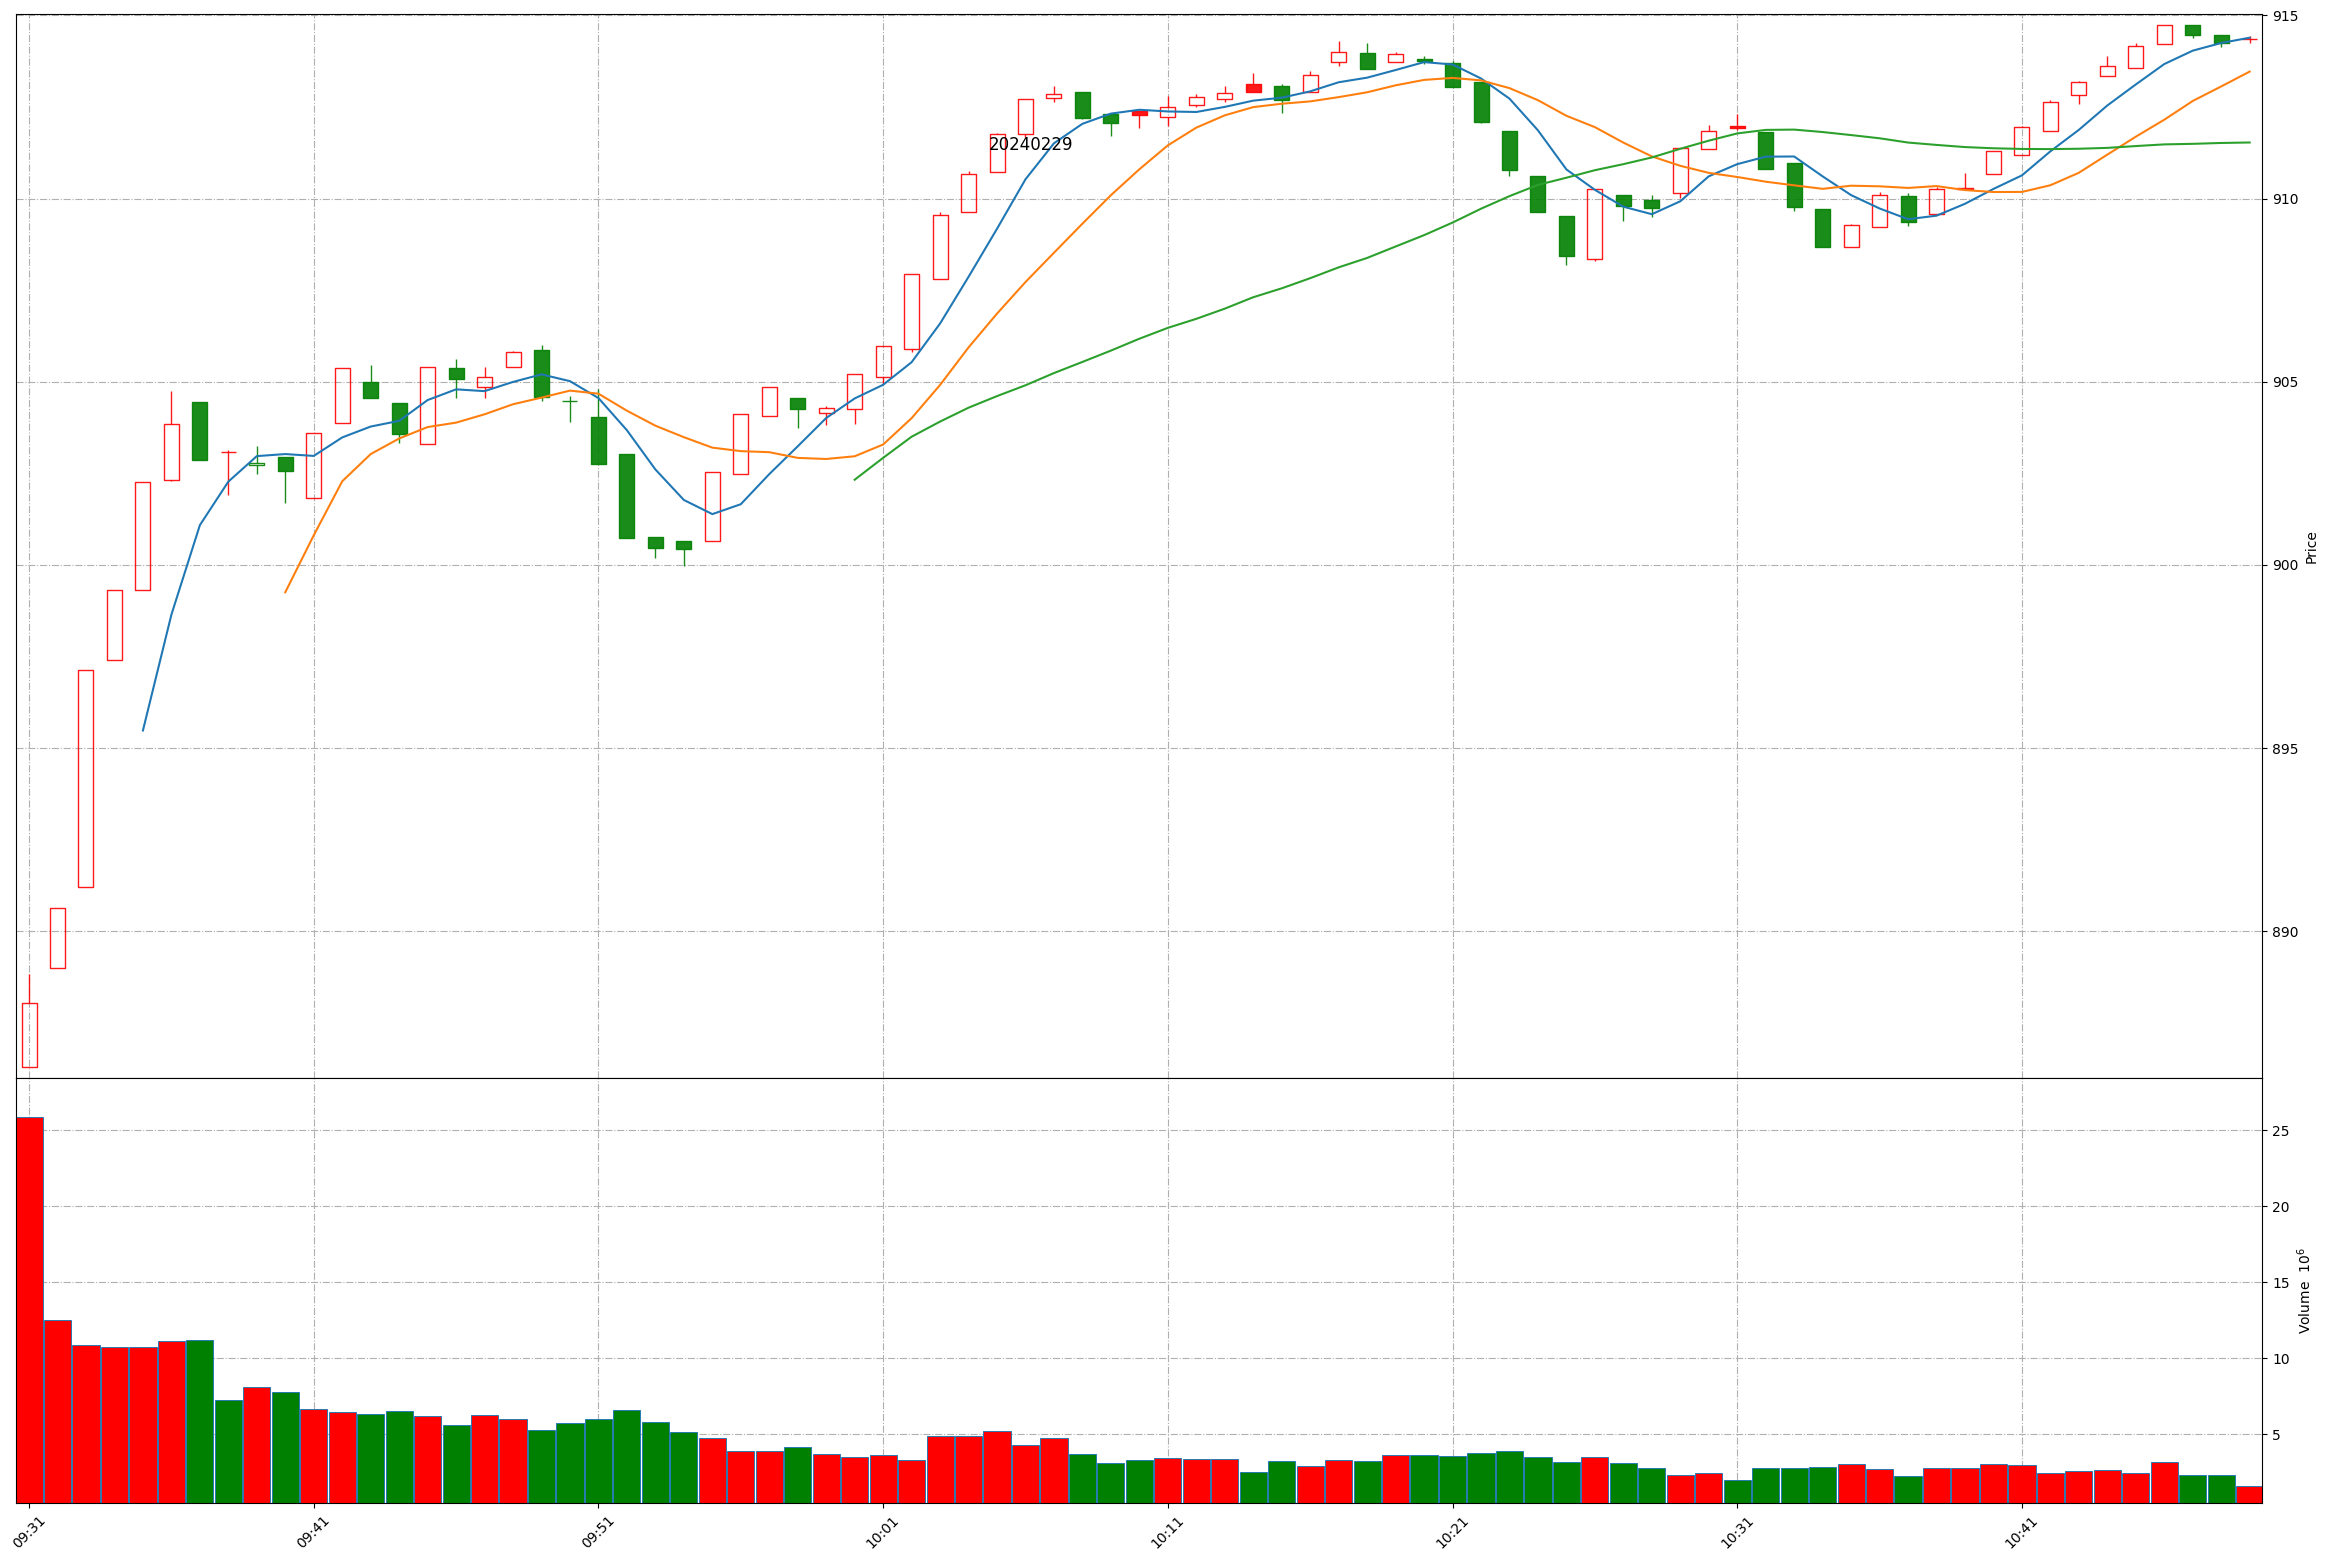
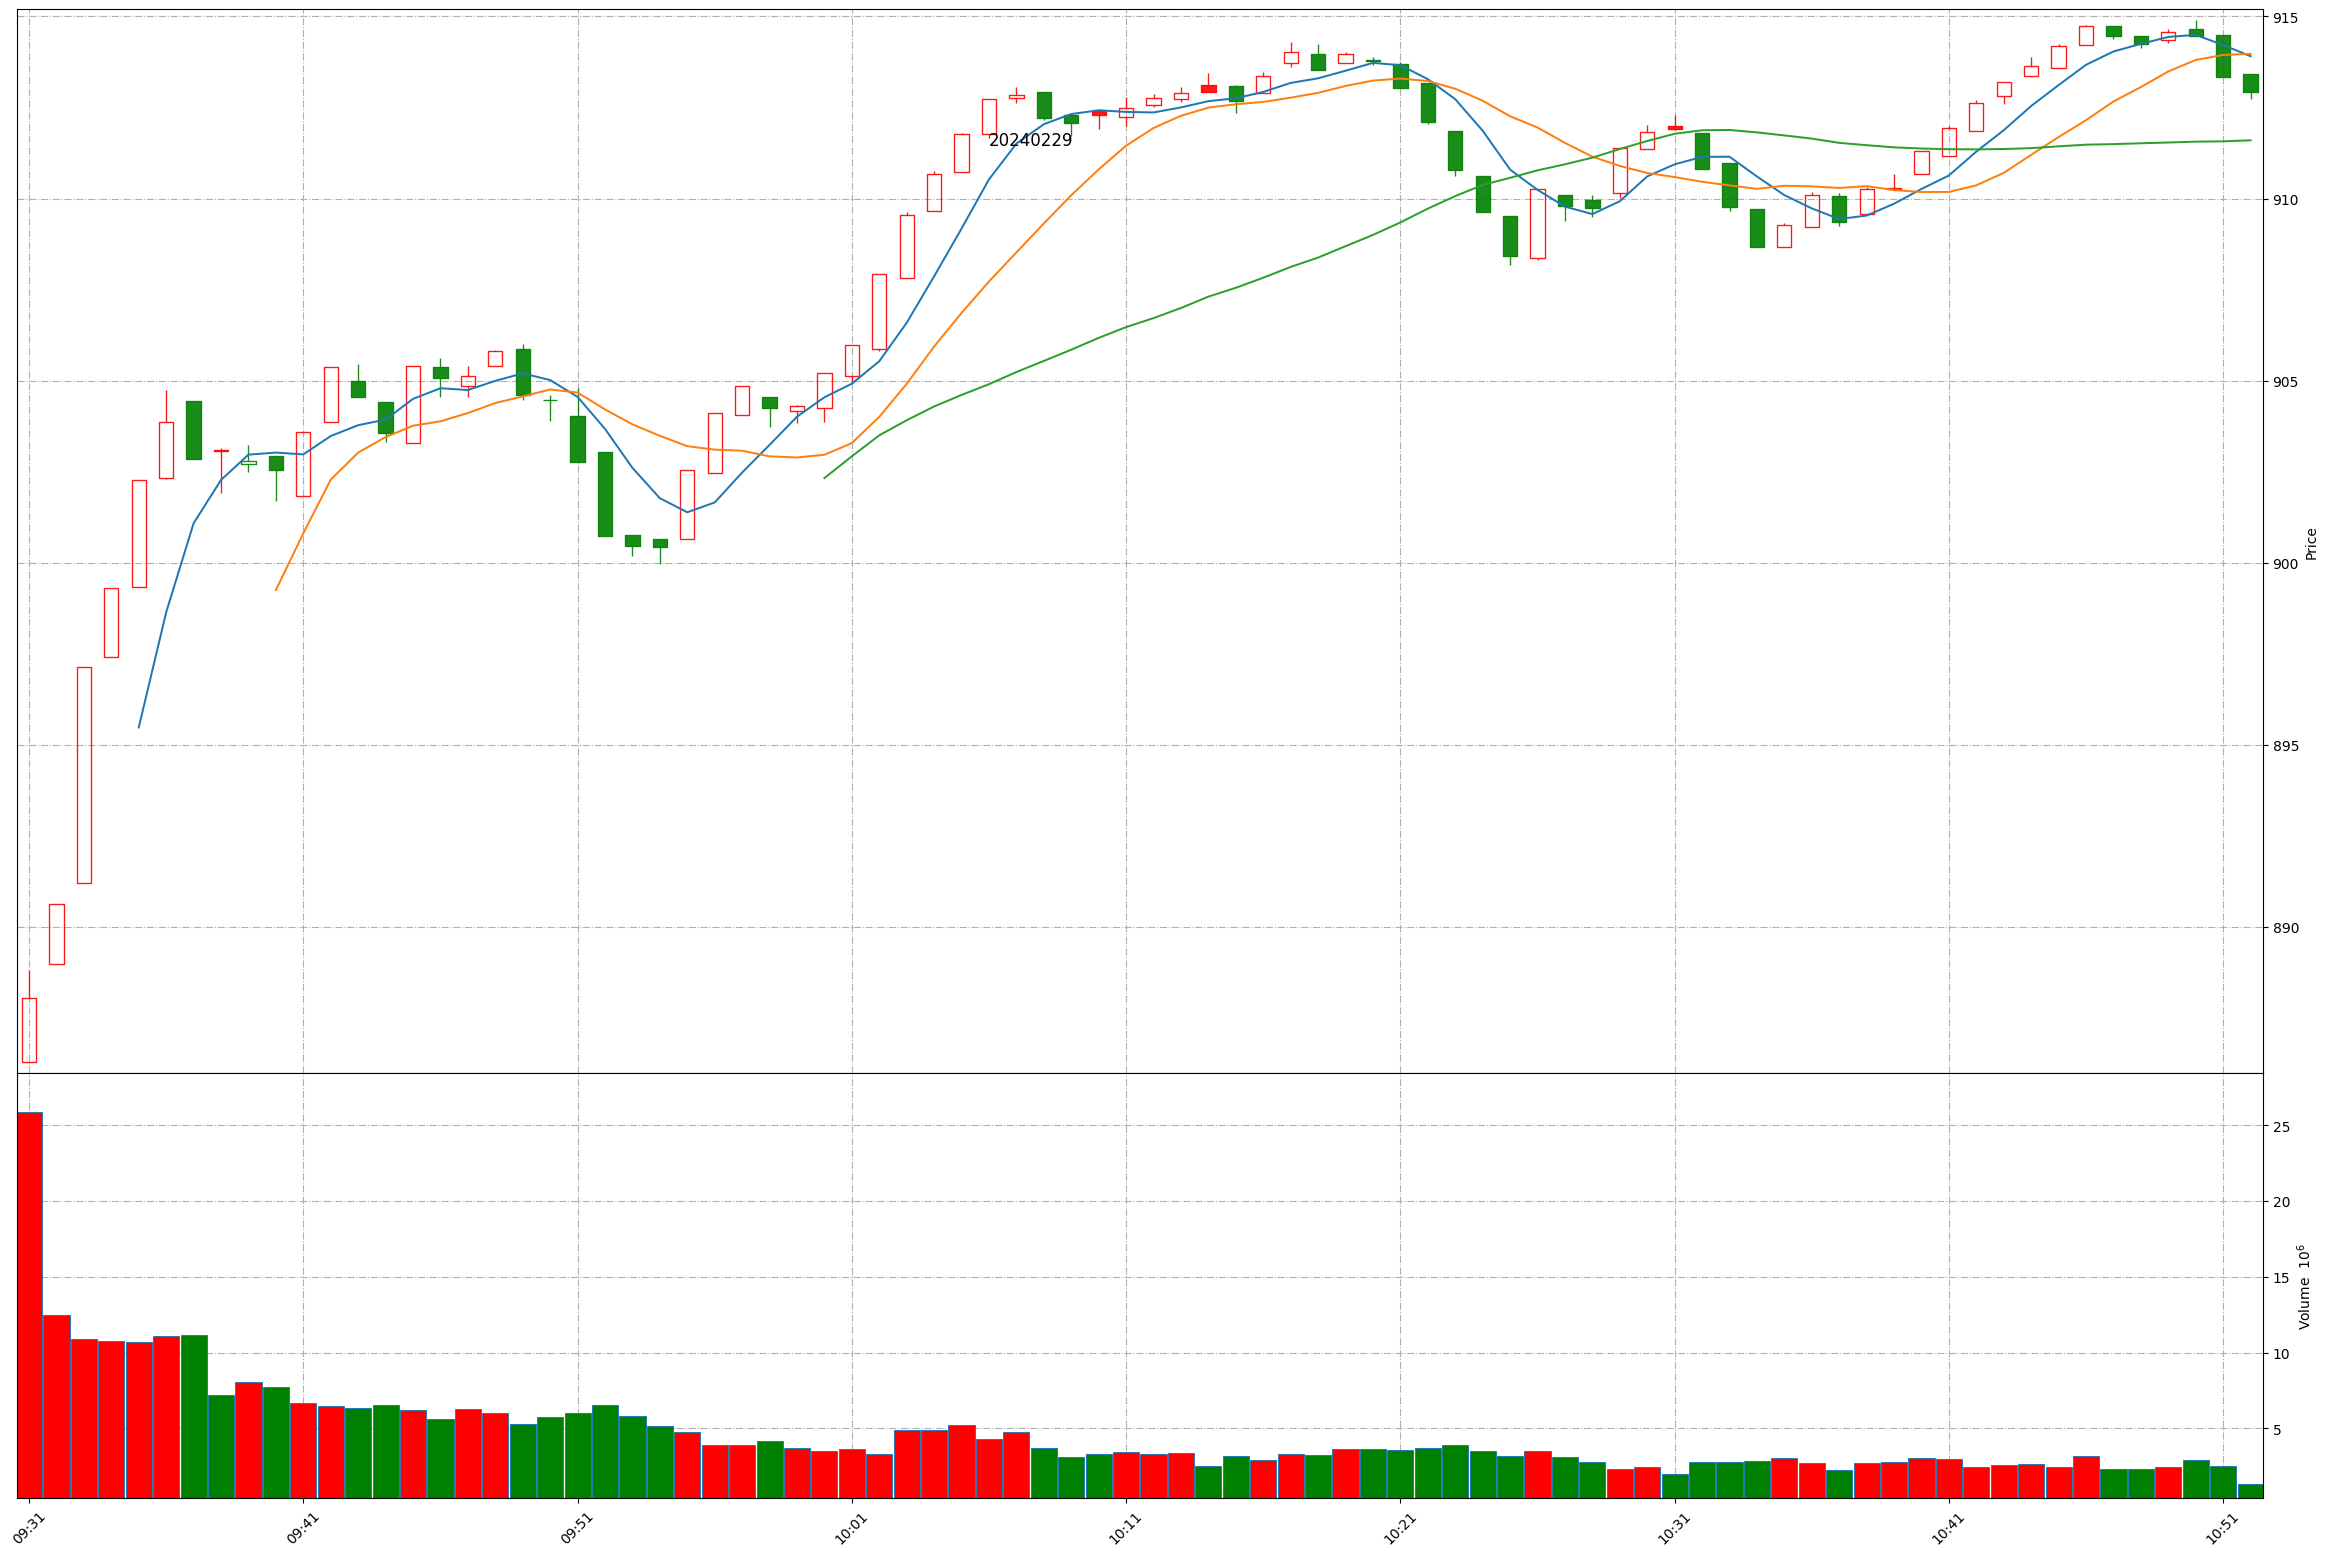
Github action update at 2024-02-29 10:51:50.

diff --git a/README.md b/README.md
@@ -1,11 +1,11 @@
 
 # Daily-A-share-market-quotes 每日 A 股指数（5min 更新）- 20240229
 
-### 上证指数 20240229 10:48
+### 上证指数 20240229 10:51
 ![](./fig/2024/2/20240229-sh000001.png)
 
-### 深证成指 20240229 10:48
+### 深证成指 20240229 10:51
 ![](./fig/2024/2/20240229-sz399001.png)
 
-### 北证50 20240229 10:48
+### 北证50 20240229 10:51
 ![](./fig/2024/2/20240229-bj899050.png)
